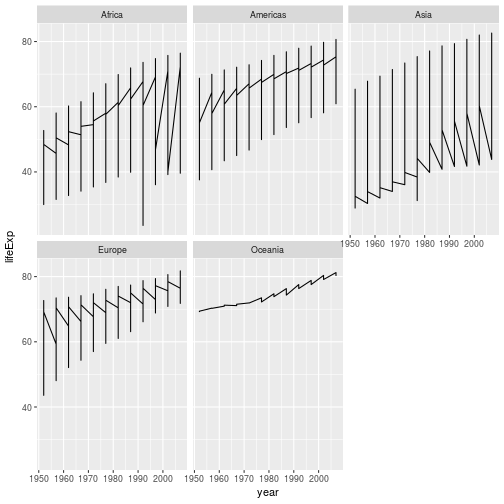
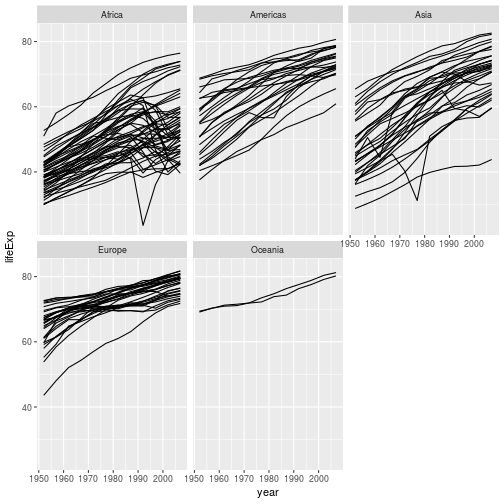
Run through all of ggplot lesson

diff --git a/_episodes/06-plot-ggplot2.md b/_episodes/06-plot-ggplot2.md
@@ -45,7 +45,7 @@ Let's start off with an example, using our gapminder data:
 
 
 ~~~
-library("ggplot2")
+library("tidyverse")
 ggplot(data = gapminder, aes(x = gdpPercap, y = lifeExp)) +
   geom_point()
 ~~~
@@ -375,22 +375,103 @@ by adding a layer of **facet** panels.
 
 
 ~~~
-gapminder %>% ggplot(aes(x = year, y = lifeExp)) +
+gapminder %>% ggplot(aes(x = year, y = lifeExp, group = country)) +
   geom_line() + facet_wrap( ~ continent)
 ~~~
 {: .r}
 
-<img src="../fig/rmd-06-facet-1.png" title="plot of chunk facet" alt="plot of chunk facet" style="display: block; margin: auto;" />
+<img src="../fig/rmd-06-unnamed-chunk-5-1.png" title="plot of chunk unnamed-chunk-5" alt="plot of chunk unnamed-chunk-5" style="display: block; margin: auto;" />
 
 The `facet_wrap` layer took a "formula" as its argument, denoted by the tilde
 (~). This tells R to draw a panel for each unique value in the country column
 of the gapminder dataset.
 
+> ## Challenge 5
+> 
+> Modify the plot so that each country has its own colour.   Although we would 
+> usually use a legend when plotting multiple series, you will find that this takes
+> up all of the plotting space; hide the legend.
+> 
+> Hint: There is a cheatsheet for `ggplot2` included with Rstudio
+> 
+> > ## Solution to challenge 5
+> > We can colour each country's line using the `colour` aesthetic:
+> > 
+> > 
+> > ~~~
+> >  gapminder %>% ggplot(aes(x = year, y = lifeExp, colour = country)) +
+> >  geom_line() + facet_wrap( ~ continent)
+> > ~~~
+> > {: .r}
+> >
+> > This will produce a plot that only shows (part of) the legend.
+> > we can hide the legend using `guides(colour = "none")`
+> >
+> > 
+> > ~~~
+> >  gapminder %>% ggplot(aes(x = year, y = lifeExp, colour = country)) +
+> >  geom_line() + facet_wrap( ~ continent) + guides(colour = "none")
+> > ~~~
+> > {: .r}
+> > 
+> > <img src="../fig/rmd-06-noLegend-1.png" title="plot of chunk noLegend" alt="plot of chunk noLegend" style="display: block; margin: auto;" />
+> {: .solution}
+{: .challenge}
+
+
+> ## Challenge 6
+>
+> Create a density plot of GDP per capita, filled by continent.
+>
+> Advanced:
+>
+>  - Transform the x axis to better visualise the data spread.
+>  - Add a facet layer to panel the density plots by year.
+>
+> > ## Solution to challenge 6
+> >
+> > Create a density plot of GDP per capita, filled by continent.
+> >
+> > Advanced:
+> >  - Transform the x axis to better visualise the data spread.
+> >  - Add a facet layer to panel the density plots by year.
+> >
+> > 
+> > ~~~
+> >  gapminder %>%  ggplot(aes(x = gdpPercap, fill = continent)) +
+> >  geom_density(alpha = 0.6) + facet_wrap( ~ year) + scale_x_log10()
+> > ~~~
+> > {: .r}
+> > 
+> > <img src="../fig/rmd-06-ch5-sol-1.png" title="plot of chunk ch5-sol" alt="plot of chunk ch5-sol" style="display: block; margin: auto;" />
+> {: .solution}
+{: .challenge}
+
+The figure we produced in challenge 6 is visually rather complicated; it's difficult
+to get a feel for how the different continents' GDPs are changing over time.  Let's focus on 
+just a couple of continents.  
+
+When we want to start subsetting and mutating the data before plotting, the usefulness of
+"piped" data-analysis becomes apparent; we can peform our data transformations and then
+send the result to `ggplot2` without making an intermediate data set.
+
+
+~~~
+gapminder %>% filter(continent %in% c("Europe", "Africa")) %>% 
+  ggplot(aes(x = gdpPercap, fill = continent)) +
+  geom_density(alpha = 0.6) + facet_wrap( ~ year) + scale_x_log10()
+~~~
+{: .r}
+
+<img src="../fig/rmd-06-unnamed-chunk-6-1.png" title="plot of chunk unnamed-chunk-6" alt="plot of chunk unnamed-chunk-6" style="display: block; margin: auto;" />
+
+
+
 ## Modifying text
 
 To clean this figure up for a publication we need to change some of the text
-elements. The x-axis is too cluttered, and the y axis should read
-"Life expectancy", rather than the column name in the data frame.
+elements.  For example the axis labels should be "human readable" rather than 
+the variable name from the data-set.  We may also wish to change the text size, etc.
 
 We can do this by adding a couple of different layers. The **theme** layer
 controls the axis text, and overall text size. Labels for the axes, plot 
@@ -401,15 +482,15 @@ of a fill legend would be set using `fill = "MyTitle"`.
 
 
 ~~~
-gapminder %>% ggplot(aes(x = year, y = lifeExp, color=continent)) +
-  geom_line() + facet_wrap( ~ country) +
+gapminder %>% filter(continent %in% c("Europe", "Africa")) %>% 
+  ggplot(aes(x = gdpPercap, fill = continent)) +
+  geom_density(alpha = 0.6) + facet_wrap( ~ year) + scale_x_log10() +
   labs(
-    x = "Year",              # x axis title
-    y = "Life expectancy",   # y axis title
+    x = "GDP per capita (log scale)",              # x axis title
+    y = "Density",   # y axis title
     title = "Figure 1",      # main title of figure
     color = "Continent"      # title of legend
-  ) +
-  theme(axis.text.x=element_blank(), axis.ticks.x=element_blank())
+  ) 
 ~~~
 {: .r}
 
@@ -427,104 +508,8 @@ code to modify!
 [ggplot-doc]: http://docs.ggplot2.org/current/
 
 
-> ## Challenge 5
->
-> Create a density plot of GDP per capita, filled by continent.
->
-> Advanced:
->  - Transform the x axis to better visualise the data spread.
->  - Add a facet layer to panel the density plots by year.
->
-> > ## Solution to challenge 5
-> >
-> > Create a density plot of GDP per capita, filled by continent.
-> >
-> > Advanced:
-> >  - Transform the x axis to better visualise the data spread.
-> >  - Add a facet layer to panel the density plots by year.
-> >
-> > 
-> > ~~~
-> >  gapminder %>%  ggplot(aes(x = gdpPercap, fill=continent)) +
-> >  geom_density(alpha=0.6) + facet_wrap( ~ year) + scale_x_log10()
-> > ~~~
-> > {: .r}
-> > 
-> > <img src="../fig/rmd-06-ch5-sol-1.png" title="plot of chunk ch5-sol" alt="plot of chunk ch5-sol" style="display: block; margin: auto;" />
-> {: .solution}
-{: .challenge}
 
 
-## Combining `dplyr` and `ggplot2`
-
-In the plotting lesson we looked at how to make a multi-panel figure by adding
-a layer of facet panels using `ggplot2`. Here is the code we used (with some
-extra comments):
-
-
-~~~
-# Get the start letter of each country
-starts.with <- substr(gapminder$country, start = 1, stop = 1)
-# Filter countries that start with "A" or "Z"
-az.countries <- gapminder[starts.with %in% c("A", "Z"), ]
-# Make the plot
-ggplot(data = az.countries, aes(x = year, y = lifeExp, color = continent)) +
-  geom_line() + facet_wrap( ~ country)
-~~~
-{: .r}
-
-<img src="../fig/rmd-06-unnamed-chunk-5-1.png" title="plot of chunk unnamed-chunk-5" alt="plot of chunk unnamed-chunk-5" style="display: block; margin: auto;" />
-
-This code makes the right plot but it also creates some variables (`starts.with`
-and `az.countries`) that we might not have any other uses for. Just as we used
-`%>%` to pipe data along a chain of `dplyr` functions we can use it to pass data
-to `ggplot()`. Because `%>%` replaces the first argument in a function we don't
-need to specify the `data =` argument in the `ggplot()` function. By combining
-`dplyr` and `ggplot2` functions we can make the same figure without creating any
-new variables or modifying the data.  
-
-
-~~~
-gapminder %>% 
-   # Get the start letter of each country 
-   mutate(startsWith = substr(country, start = 1, stop = 1)) %>% 
-   # Filter countries that start with "A" or "Z"
-   filter(startsWith %in% c("A", "Z")) %>%
-   # Make the plot
-   ggplot(aes(x = year, y = lifeExp, color = continent)) + 
-   geom_line() + 
-   facet_wrap( ~ country)
-~~~
-{: .r}
-
-
-
-~~~
-Error in mutate(., startsWith = substr(country, start = 1, stop = 1)): could not find function "mutate"
-~~~
-{: .error}
-
-Using `dplyr` functions also helps us simplify things, for example we could
-combine the first two steps:
-
-
-~~~
-gapminder %>%
-    # Filter countries that start with "A" or "Z"
-	filter(substr(country, start = 1, stop = 1) %in% c("A", "Z")) %>%
-	# Make the plot
-	ggplot(aes(x = year, y = lifeExp, color = continent)) + 
-	geom_line() + 
-	facet_wrap( ~ country)
-~~~
-{: .r}
-
-
-
-~~~
-Error in substr(country, start = 1, stop = 1): object 'country' not found
-~~~
-{: .error}
 
 > ## Advanced Challenge
 >
@@ -544,13 +529,6 @@ Error in substr(country, start = 1, stop = 1): object 'country' not found
 > >    arrange(desc(mean_lifeExp))
 > >~~~
 > >{: .r}
-> >
-> >
-> >
-> >~~~
-> >Error in filter(., year == 2002): object 'year' not found
-> >~~~
-> >{: .error}
 > {: .solution}
 {: .challenge}
 
